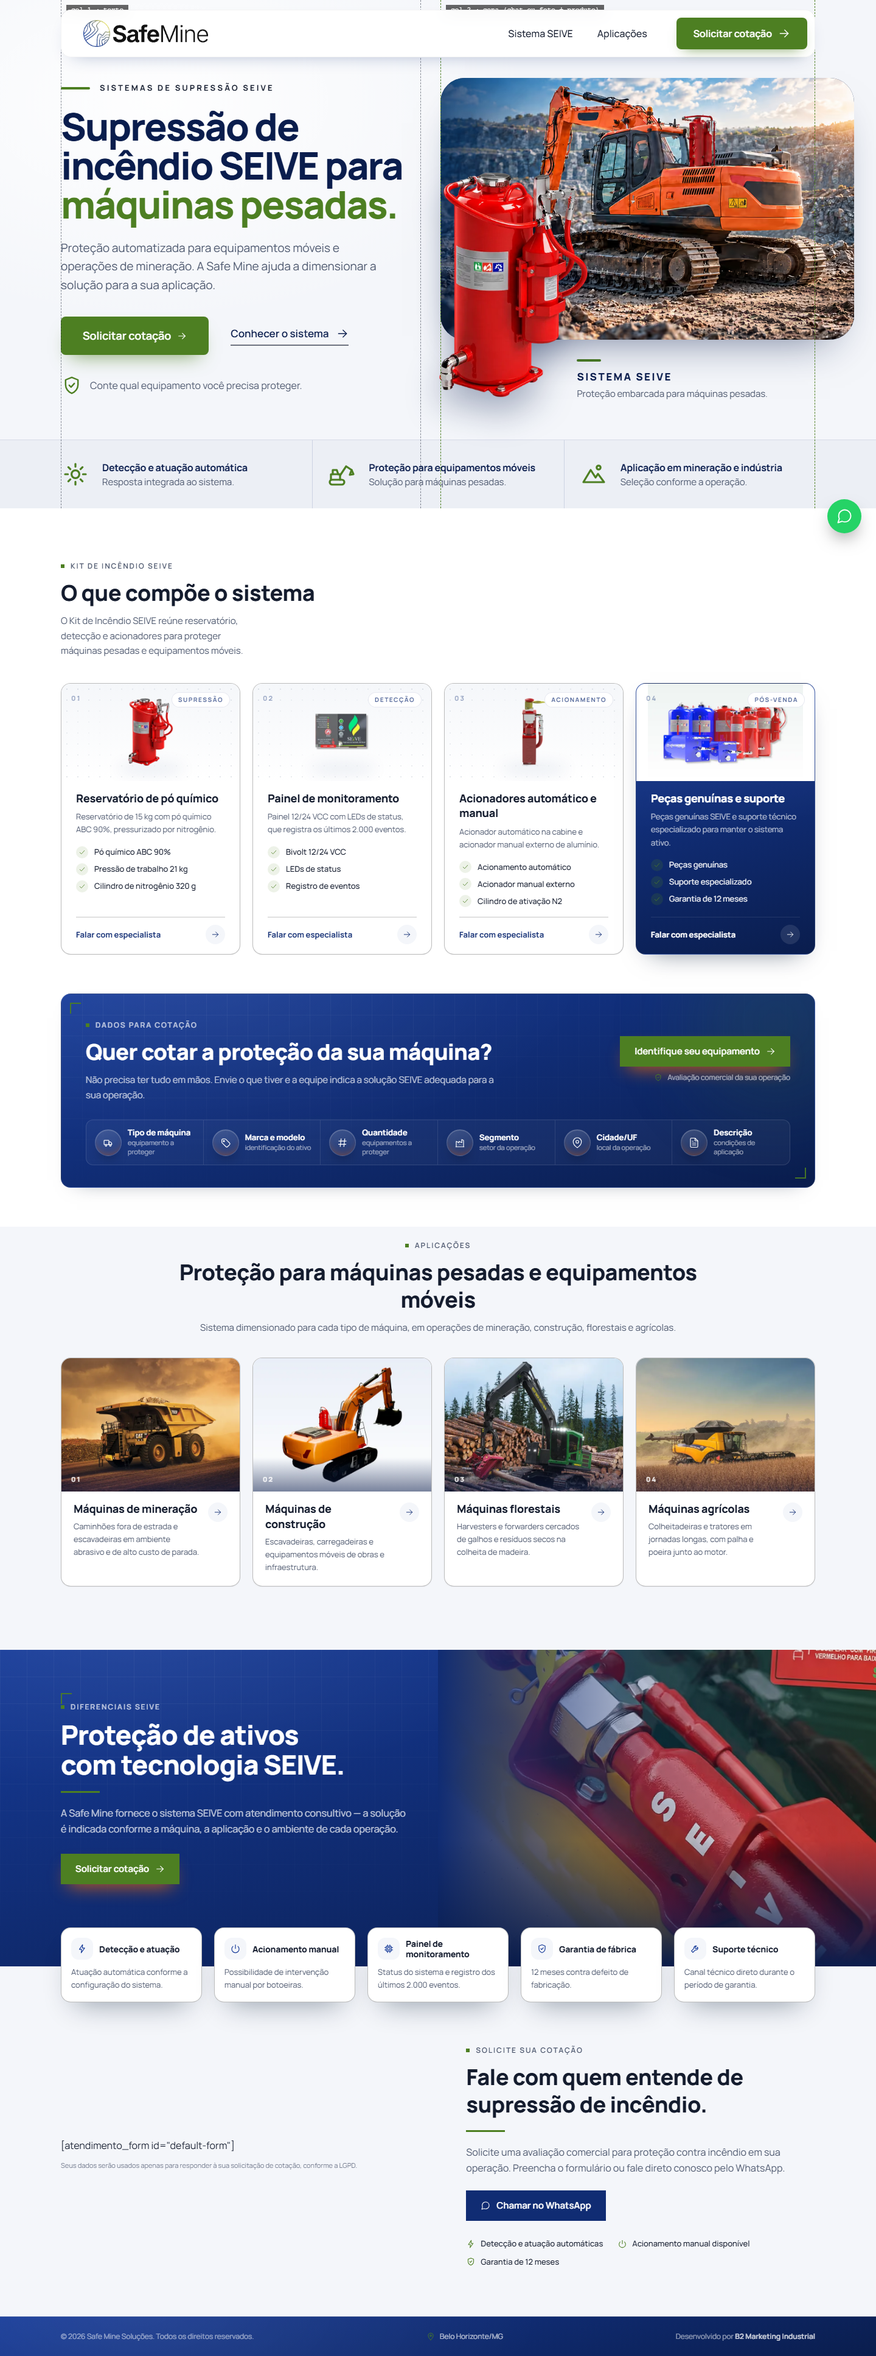
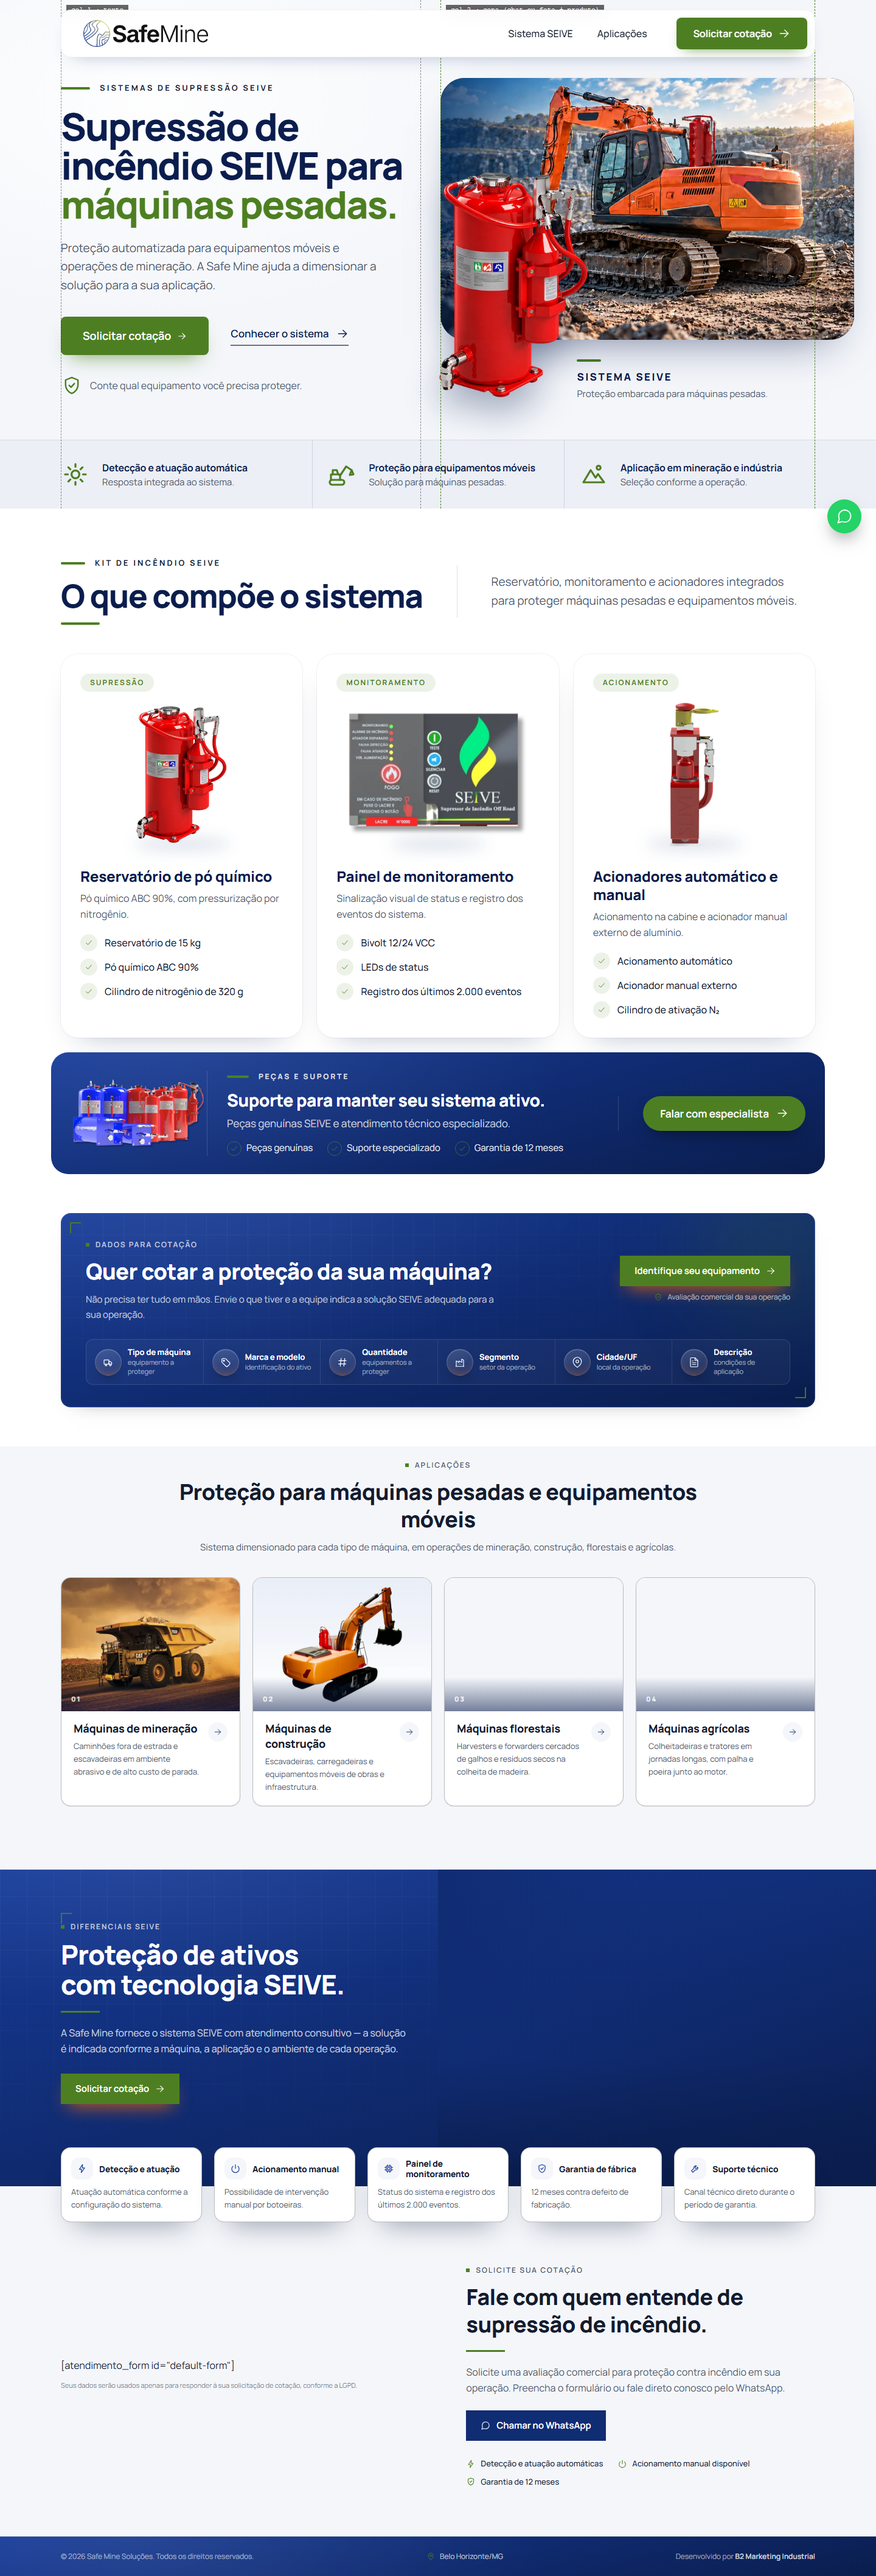
feat: seção do kit no mockup da Safe Mine
Cabeçalho com título e texto lado a lado, três cards claros com chip,
foto grande e checks (cada card inteiro clicável, com data-cta por item)
e o pós-venda como faixa azul em largura total com o CTA em pílula.
Copy de linhas atualizada na ficha; desvio registrado no BRIEFING.md.

diff --git a/src/data/sections/linhas.ts b/src/data/sections/linhas.ts
@@ -4,8 +4,8 @@
  * 3 ou 4 cards, exatamente um deles escuro — normalmente o card de marcas, que
  * fecha o grid com peso visual. Cada linha tem 3 features de 2–4 palavras.
  *
- * Nesta LP os cards são os componentes do Kit de Incêndio SEIVE, e o card escuro é
- * o pós-venda.
+ * Nesta LP os cards são os componentes do Kit de Incêndio SEIVE, e o item escuro é o
+ * pós-venda — no mockup da Safe Mine ele vira a faixa azul abaixo dos três cards.
  */
 import type { Photo } from '@data/types'
 
@@ -28,41 +28,40 @@ export interface ProductLine {
 export const productLines = {
   eyebrow: 'Kit de Incêndio SEIVE',
   title: 'O que compõe o sistema',
-  text: 'O Kit de Incêndio SEIVE reúne reservatório, detecção e acionadores para proteger máquinas pesadas e equipamentos móveis.',
+  text: 'Reservatório, monitoramento e acionadores integrados para proteger máquinas pesadas e equipamentos móveis.',
   items: [
     {
       id: 'reservatorio',
       tag: 'Supressão',
       title: 'Reservatório de pó químico',
-      description: 'Reservatório de 15 kg com pó químico ABC 90%, pressurizado por nitrogênio.',
+      description: 'Pó químico ABC 90%, com pressurização por nitrogênio.',
       photo: { src: linha1, alt: 'Reservatório de pó químico SEIVE' },
-      features: ['Pó químico ABC 90%', 'Pressão de trabalho 21 kg', 'Cilindro de nitrogênio 320 g'],
+      features: ['Reservatório de 15 kg', 'Pó químico ABC 90%', 'Cilindro de nitrogênio de 320 g'],
       dark: false,
     },
     {
       id: 'monitoramento',
-      tag: 'Detecção',
+      tag: 'Monitoramento',
       title: 'Painel de monitoramento',
-      description: 'Painel 12/24 VCC com LEDs de status, que registra os últimos 2.000 eventos.',
+      description: 'Sinalização visual de status e registro dos eventos do sistema.',
       photo: { src: linha2, alt: 'Painel de monitoramento SEIVE' },
-      features: ['Bivolt 12/24 VCC', 'LEDs de status', 'Registro de eventos'],
+      features: ['Bivolt 12/24 VCC', 'LEDs de status', 'Registro dos últimos 2.000 eventos'],
       dark: false,
     },
     {
       id: 'acionadores',
       tag: 'Acionamento',
       title: 'Acionadores automático e manual',
-      description: 'Acionador automático na cabine e acionador manual externo de alumínio.',
-      photo: { src: linha3, alt: 'Acionador SEIVE vermelho' },
-      features: ['Acionamento automático', 'Acionador manual externo', 'Cilindro de ativação N2'],
+      description: 'Acionamento na cabine e acionador manual externo de alumínio.',
+      photo: { src: linha3, alt: 'Acionador manual SEIVE' },
+      features: ['Acionamento automático', 'Acionador manual externo', 'Cilindro de ativação N₂'],
       dark: false,
     },
     {
       id: 'pecas',
-      tag: 'Pós-venda',
-      title: 'Peças genuínas e suporte',
-      description:
-        'Peças genuínas SEIVE e suporte técnico especializado para manter o sistema ativo.',
+      tag: 'Peças e suporte',
+      title: 'Suporte para manter seu sistema ativo.',
+      description: 'Peças genuínas SEIVE e atendimento técnico especializado.',
       photo: { src: marcasPhoto, alt: 'Família de reservatórios supressores SEIVE' },
       features: ['Peças genuínas', 'Suporte especializado', 'Garantia de 12 meses'],
       dark: true,

diff --git a/docs/FICHA-LP.md b/docs/FICHA-LP.md
@@ -124,42 +124,43 @@ blocos:
     papeis: [Gestores de manutenção, Gestores de frotas]
     eyebrow: Kit de Incêndio SEIVE
     title: O que compõe o sistema
-    text: O Kit de Incêndio SEIVE reúne reservatório, detecção e acionadores para proteger máquinas pesadas e equipamentos móveis.
+    # Copy do mockup da seção do kit (29/10/2026, desvio registrado no BRIEFING.md)
+    text: Reservatório, monitoramento e acionadores integrados para proteger máquinas pesadas e equipamentos móveis.
     items:
       - id: reservatorio
         tag: Supressão
         title: Reservatório de pó químico
-        description: Reservatório de 15 kg com pó químico ABC 90%, pressurizado por nitrogênio.
+        description: Pó químico ABC 90%, com pressurização por nitrogênio.
         features:
+          - Reservatório de 15 kg
           - Pó químico ABC 90%
-          - Pressão de trabalho 21 kg
-          - Cilindro de nitrogênio 320 g
+          - Cilindro de nitrogênio de 320 g
         photo: Reservatório de pó químico SEIVE
         dark: false
       - id: monitoramento
-        tag: Detecção
+        tag: Monitoramento
         title: Painel de monitoramento
-        description: Painel 12/24 VCC com LEDs de status, que registra os últimos 2.000 eventos.
+        description: Sinalização visual de status e registro dos eventos do sistema.
         features:
           - Bivolt 12/24 VCC
           - LEDs de status
-          - Registro de eventos
+          - Registro dos últimos 2.000 eventos
         photo: Painel de monitoramento SEIVE
         dark: false
       - id: acionadores
         tag: Acionamento
         title: Acionadores automático e manual
-        description: Acionador automático na cabine e acionador manual externo de alumínio.
+        description: Acionamento na cabine e acionador manual externo de alumínio.
         features:
           - Acionamento automático
           - Acionador manual externo
-          - Cilindro de ativação N2
-        photo: Acionador SEIVE vermelho
+          - Cilindro de ativação N₂
+        photo: Acionador manual SEIVE
         dark: false
       - id: pecas
-        tag: Pós-venda
-        title: Peças genuínas e suporte
-        description: Peças genuínas SEIVE e suporte técnico especializado para manter o sistema ativo.
+        tag: Peças e suporte
+        title: Suporte para manter seu sistema ativo.
+        description: Peças genuínas SEIVE e atendimento técnico especializado.
         features:
           - Peças genuínas
           - Suporte especializado

diff --git a/docs/BRIEFING.md b/docs/BRIEFING.md
@@ -153,6 +153,16 @@ A pedido do usuário, Header e Hero seguem o mockup claro enviado em 29/10/2026 
 - Ícone novo no catálogo: `excavator`. O preload do LCP em `Layout.astro` usa o mesmo `sizes` da foto do hero.
 - A assinatura A8 de `scripts/check-lp.mjs` foi repinada para essa abertura.
 
+## Desvio aprovado: seção do kit no mockup da Safe Mine (29/10/2026)
+
+A pedido do usuário, `src/components/sections/ProductLines.astro` (seção `linhas`) segue o mockup "SEIVE Fire Suppression Components & Support.png":
+
+- Cabeçalho com o título grande e traço verde à esquerda e o texto à direita, separados por uma linha.
+- Três cards claros (chip verde, foto grande, título, descrição e checks), sem índice e sem rodapé de CTA visível. Cada card é inteiro clicável por um botão sem texto que o cobre (`data-cta="linhas-{id}"`, rótulo em `aria-label`), para manter o rastreio por item.
+- O item escuro (`dark: true`, pós-venda) virou a faixa azul em largura total abaixo dos cards, com a família de reservatórios recortada, "Suporte para manter seu sistema ativo.", três checks e o CTA "Falar com especialista" em pílula.
+- Copy de `linhas` atualizada na ficha e no arquivo de dados conforme o mockup; o contrato do manifesto continua atendido (4 itens, um escuro, 3 features cada).
+- **Atenção:** `npm run compose` sobrescreve este componente com o da biblioteca. Se a LP for recomposta, restaure-o do git depois do compose.
+
 ## Desvios técnicos da execução
 
 - `npm run screens` falha nesta pasta: o script monta o comando com `shell: true` e o caminho tem espaços. As capturas foram feitas com os mesmos parâmetros (porta 4873, Playwright 1.58.2, `?screens=1` e `?grid=1`), com caminho relativo e 5 s de espera.
